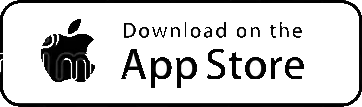
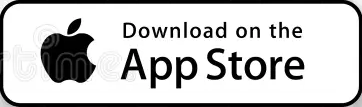
Fix footer store badges (opaque crops) and tighten compact footer on mobile
- Regenerate Play/App Store PNGs from fixed crop boxes; simplify generate-footer-store-badges.py.
- useCompactAppFooter: enable compact footer on native Capacitor, standalone PWA, and max-width 768px.

Made-with: Cursor

diff --git a/app/src/hooks/useCompactAppFooter.ts b/app/src/hooks/useCompactAppFooter.ts
@@ -1,6 +1,6 @@
 "use client";
 
-import { useLayoutEffect, useState } from "react";
+import { useEffect, useState } from "react";
 
 /**
  * True when the UI runs inside the Capacitor native shell (iOS/Android), either
@@ -11,15 +11,35 @@ export function useCompactAppFooter(): boolean {
     () => process.env.NEXT_PUBLIC_MOBILE_SHELL === "true",
   );
 
-  useLayoutEffect(() => {
+  useEffect(() => {
     if (process.env.NEXT_PUBLIC_MOBILE_SHELL === "true") return;
+
+    const checkCompact = () => {
+      const smallScreen = window.matchMedia("(max-width: 768px)").matches;
+      const standalone =
+        window.matchMedia("(display-mode: standalone)").matches ||
+        (window.navigator as Navigator & { standalone?: boolean }).standalone === true;
+      if (smallScreen || standalone) {
+        setCompact(true);
+      }
+    };
+
+    checkCompact();
+    window.addEventListener("resize", checkCompact);
+
     let cancelled = false;
-    void import("@capacitor/core").then(({ Capacitor }) => {
-      if (cancelled) return;
-      if (Capacitor.isNativePlatform()) setCompact(true);
-    });
+    void import("@capacitor/core")
+      .then(({ Capacitor }) => {
+        if (cancelled) return;
+        if (Capacitor.isNativePlatform()) setCompact(true);
+      })
+      .catch(() => {
+        // Keep compact mode based on mobile viewport / standalone fallback.
+      });
+
     return () => {
       cancelled = true;
+      window.removeEventListener("resize", checkCompact);
     };
   }, []);
 

diff --git a/scripts/generate-footer-store-badges.py b/scripts/generate-footer-store-badges.py
@@ -1,106 +1,40 @@
 #!/usr/bin/env python3
-"""Regenerate app/public/images/store/footer-*.png from the two-in-one stock PNG.
+"""Regenerate app/public/images/store/footer-*.png from two-badge stock PNG.
 
-Uses flood fill from image corners (stops at black badge strokes) plus light
-defringe on neutral gray pixels at alpha edges.
+This stock source has a fixed layout: Google Play on the left and App Store on
+the right. We crop the exact badge rectangles and keep them opaque so they
+render cleanly on dark footers with no alpha-fringe artifacts.
 """
 from __future__ import annotations
 
 import sys
-from collections import deque
 from pathlib import Path
 
-import numpy as np
 from PIL import Image
 
 REPO = Path(__file__).resolve().parents[1]
 DEFAULT_SRC = REPO / "scripts/assets/two-badges-stock.png"
 OUT_DIR = REPO / "app/public/images/store"
 
-
-def flood_bg(rgb: np.ndarray) -> np.ndarray:
-    h, w = rgb.shape[:2]
-
-    def is_hard_stop(r: int, g: int, b: int) -> bool:
-        return max(r, g, b) < 42
-
-    vis = np.zeros((h, w), dtype=bool)
-    q: deque[tuple[int, int]] = deque()
-    for x, y in ((0, 0), (w - 1, 0), (0, h - 1), (w - 1, h - 1)):
-        if not vis[y, x]:
-            vis[y, x] = True
-            q.append((x, y))
-    while q:
-        x, y = q.popleft()
-        for dx, dy in ((1, 0), (-1, 0), (0, 1), (0, -1)):
-            nx, ny = x + dx, y + dy
-            if nx < 0 or nx >= w or ny < 0 or ny >= h or vis[ny, nx]:
-                continue
-            r, g, b = rgb[ny, nx].astype(int)
-            if is_hard_stop(r, g, b):
-                continue
-            vis[ny, nx] = True
-            q.append((nx, ny))
-    return vis
-
-
-def trim_fg_rgba(rgba: np.ndarray) -> np.ndarray:
-    ys, xs = np.where(rgba[:, :, 3] > 0)
-    if len(xs) == 0:
-        return rgba
-    y0, y1 = ys.min(), ys.max() + 1
-    x0, x1 = xs.min(), xs.max() + 1
-    return rgba[y0:y1, x0:x1]
-
-
-def defringe_rgba(rgba: np.ndarray, gray_lo: float = 160, gray_hi: float = 250) -> np.ndarray:
-    a = rgba[:, :, 3].astype(np.float32) / 255.0
-    r = rgba[:, :, 0].astype(np.float32)
-    g = rgba[:, :, 1].astype(np.float32)
-    b = rgba[:, :, 2].astype(np.float32)
-    mx = np.maximum(np.maximum(r, g), b)
-    mn = np.minimum(np.minimum(r, g), b)
-    chroma = mx - mn
-    neutral = (chroma < 30) & (mn > gray_lo) & (mx < gray_hi)
-    h, w = a.shape
-    amin = np.ones_like(a)
-    for dy, dx in ((-1, 0), (1, 0), (0, -1), (0, 1)):
-        sl = np.s_[max(0, -dy) : h - max(0, dy), max(0, -dx) : w - max(0, dx)]
-        aa = a[max(0, dy) : h + min(0, dy), max(0, dx) : w + min(0, dx)]
-        amin[sl] = np.minimum(amin[sl], aa)
-    edge = (a > 0.05) & (amin < 0.95)
-    kill = neutral & edge
-    out = np.array(rgba, copy=True)
-    out[kill, 3] = 0
-    return out
-
-
 def main() -> None:
     src = Path(sys.argv[1]).expanduser() if len(sys.argv) > 1 else DEFAULT_SRC
     if not src.is_file():
         print(f"Missing source image: {src}", file=sys.stderr)
         sys.exit(1)
-    rgb = np.array(Image.open(src).convert("RGB"))
-    h, w = rgb.shape[:2]
-    bg = flood_bg(rgb)
-    fg = ~bg
-    half = w // 2
-    chunks = (("footer-google-play", slice(0, half)), ("footer-app-store", slice(half, w)))
+
+    # Coordinates are (left, top, right, bottom), right/bottom exclusive.
+    # Derived from the stock source layout and dark border bounds.
+    chunks = {
+        "footer-google-play": (23, 70, 386, 177),  # 363x107
+        "footer-app-store": (416, 71, 778, 178),   # 362x107
+    }
     OUT_DIR.mkdir(parents=True, exist_ok=True)
-    for name, sl in chunks:
-        sub_rgb = rgb[:, sl, :].copy()
-        sub_bg = bg[:, sl].copy()
-        sub_fg = ~sub_bg
-        rgba = np.zeros((sub_rgb.shape[0], sub_rgb.shape[1], 4), dtype=np.uint8)
-        rgba[:, :, :3] = sub_rgb
-        rgba[:, :, 3] = (sub_fg.astype(np.uint8) * 255)
-        rgba = trim_fg_rgba(rgba)
-        rgba = defringe_rgba(rgba)
-        rgba = trim_fg_rgba(rgba)
+    src_im = Image.open(src).convert("RGB")
+    for name, box in chunks.items():
+        badge = src_im.crop(box)
         out_path = OUT_DIR / f"{name}.png"
-        Image.fromarray(rgba).save(out_path, optimize=True)
-        im = Image.open(out_path)
-        print(f"{name}: {im.size[0]}x{im.size[1]} -> {out_path.relative_to(REPO)}")
+        badge.save(out_path, optimize=True)
+        print(f"{name}: {badge.size[0]}x{badge.size[1]} -> {out_path.relative_to(REPO)}")
 
 
 if __name__ == "__main__":
